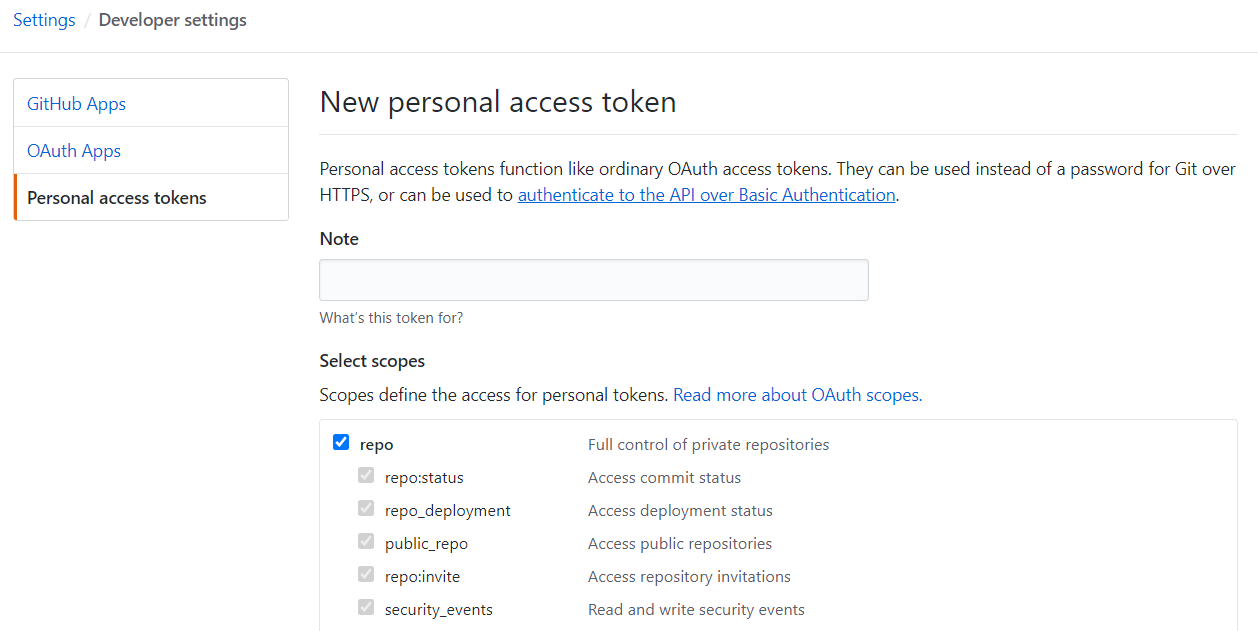
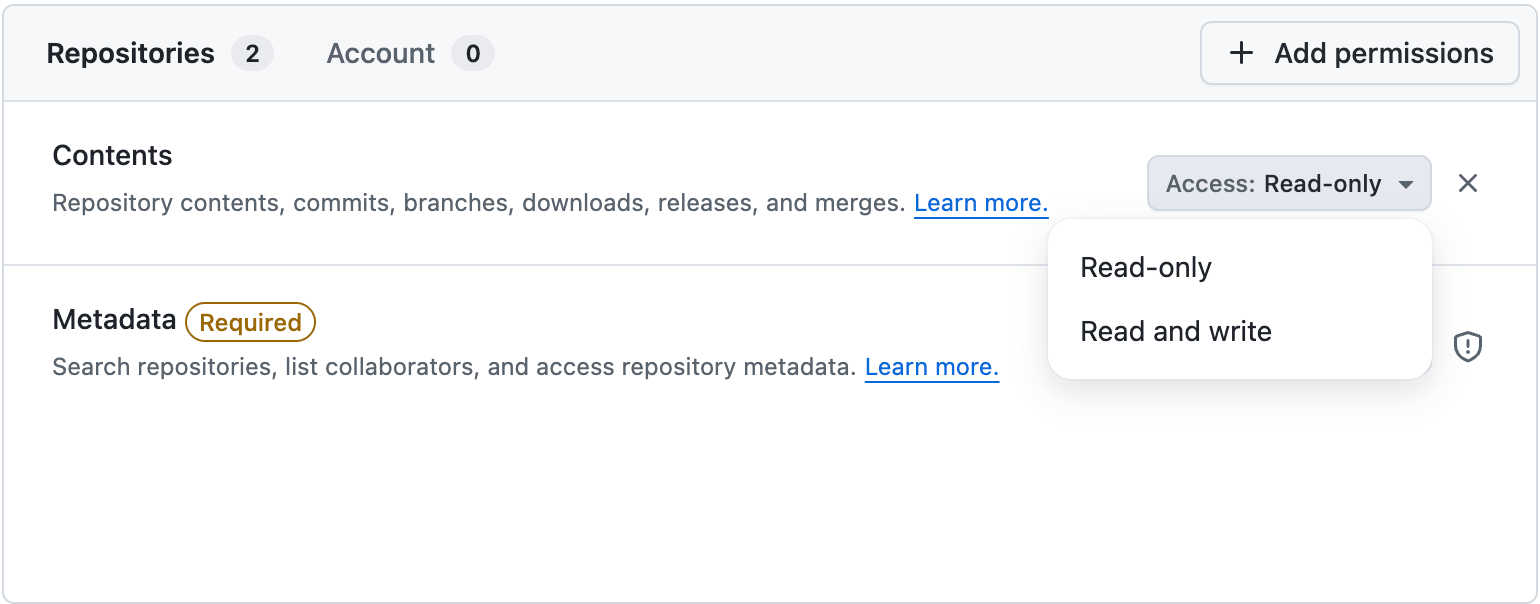
commit 2026_07_07_01_46_PM

diff --git a/howto/create/a-blog/index.html b/howto/create/a-blog/index.html
@@ -283,6 +283,15 @@
 </span></span></span><span class="line"><span class="cl"><span class="w"></span><span class="nt">pool</span><span class="p">:</span><span class="w">
 </span></span></span><span class="line"><span class="cl"><span class="w">  </span><span class="nt">vmImage</span><span class="p">:</span><span class="w"> </span><span class="l">ubuntu-latest</span><span class="w">
 </span></span></span><span class="line"><span class="cl"><span class="w">
+</span></span></span><span class="line"><span class="cl"><span class="w"></span><span class="nt">variables</span><span class="p">:</span><span class="w">
+</span></span></span><span class="line"><span class="cl"><span class="w">  </span>- <span class="nt">group</span><span class="p">:</span><span class="w"> </span><span class="l">&lt;variable-group-name&gt;</span><span class="w">
+</span></span></span><span class="line"><span class="cl"><span class="w">  </span>- <span class="nt">name</span><span class="p">:</span><span class="w"> </span><span class="l">user</span><span class="w">
+</span></span></span><span class="line"><span class="cl"><span class="w">    </span><span class="nt">value</span><span class="p">:</span><span class="w"> </span><span class="l">&lt;github-username&gt;</span><span class="w">
+</span></span></span><span class="line"><span class="cl"><span class="w">  </span>- <span class="nt">name</span><span class="p">:</span><span class="w"> </span><span class="l">email</span><span class="w">
+</span></span></span><span class="line"><span class="cl"><span class="w">    </span><span class="nt">value</span><span class="p">:</span><span class="w"> </span><span class="l">&lt;github-email&gt;</span><span class="w">
+</span></span></span><span class="line"><span class="cl"><span class="w">  </span>- <span class="nt">name</span><span class="p">:</span><span class="w"> </span><span class="l">repo</span><span class="w">
+</span></span></span><span class="line"><span class="cl"><span class="w">    </span><span class="nt">value</span><span class="p">:</span><span class="w"> </span><span class="l">&lt;github-repo-name&gt;</span><span class="w">
+</span></span></span><span class="line"><span class="cl"><span class="w">
 </span></span></span><span class="line"><span class="cl"><span class="w"></span><span class="nt">steps</span><span class="p">:</span><span class="w">
 </span></span></span><span class="line"><span class="cl"><span class="w">  </span>- <span class="nt">checkout</span><span class="p">:</span><span class="w"> </span><span class="l">self</span><span class="w">
 </span></span></span><span class="line"><span class="cl"><span class="w">    </span><span class="nt">submodules</span><span class="p">:</span><span class="w"> </span><span class="kc">true</span><span class="w">
@@ -305,9 +314,9 @@
 </span></span></span><span class="line"><span class="cl"><span class="sd">      git checkout master
 </span></span></span><span class="line"><span class="cl"><span class="sd">      git add --all
 </span></span></span><span class="line"><span class="cl"><span class="sd">      git -c user.name=$(user) -c user.email=$(email) commit -m &#34;commit $(date +&#34;%Y_%m_%d_%I_%M_%p&#34;)&#34;
-</span></span></span><span class="line"><span class="cl"><span class="sd">      git push -f https://$(token):x-oauth-basic@github.com/$(user)/$(repo).git master</span><span class="w">      
+</span></span></span><span class="line"><span class="cl"><span class="sd">      git push -f https://x-access-token:$(token)@github.com/$(user)/$(repo).git master</span><span class="w">      
 </span></span></span><span class="line"><span class="cl"><span class="w">    </span><span class="nt">displayName</span><span class="p">:</span><span class="w"> </span><span class="l">Push generated site to github.io</span><span class="w">
-</span></span></span></code></pre></div><p>Next, visit your github tokens page <a href="https://github.com/settings/tokens">here</a>, and generate a github token.
+</span></span></span></code></pre></div><p>Next, visit your github tokens page <a href="https://github.com/settings/personal-access-tokens">here</a>, and generate a github token with Contents (r/w).
 Make sure you check the &ldquo;repo&rdquo; box, and copy the token:</p>
 <p><img src="/images/create-a-blog/new-github-token.png#large#shadow" alt=""></p>
 <p>Go back to your Azure build pipeline and click on &ldquo;<strong>Variables</strong>&rdquo;. Create a new variable called <code>token</code>, and paste your github token in the value field. Also make sure to tick the &ldquo;<strong>Keep this value secret</strong>&rdquo; box:</p>

diff --git a/howto/use/functional-programming-in-python/index.html b/howto/use/functional-programming-in-python/index.html
@@ -525,7 +525,6 @@ We can say that pure functions are <strong>referentially transparent</strong>:</
 
   
 
-<script src="https://polyfill.io/v3/polyfill.min.js?features=es6"></script>
 <script id="MathJax-script"
         async
         src="https://cdn.jsdelivr.net/npm/mathjax@3/es5/tex-mml-chtml.js">
